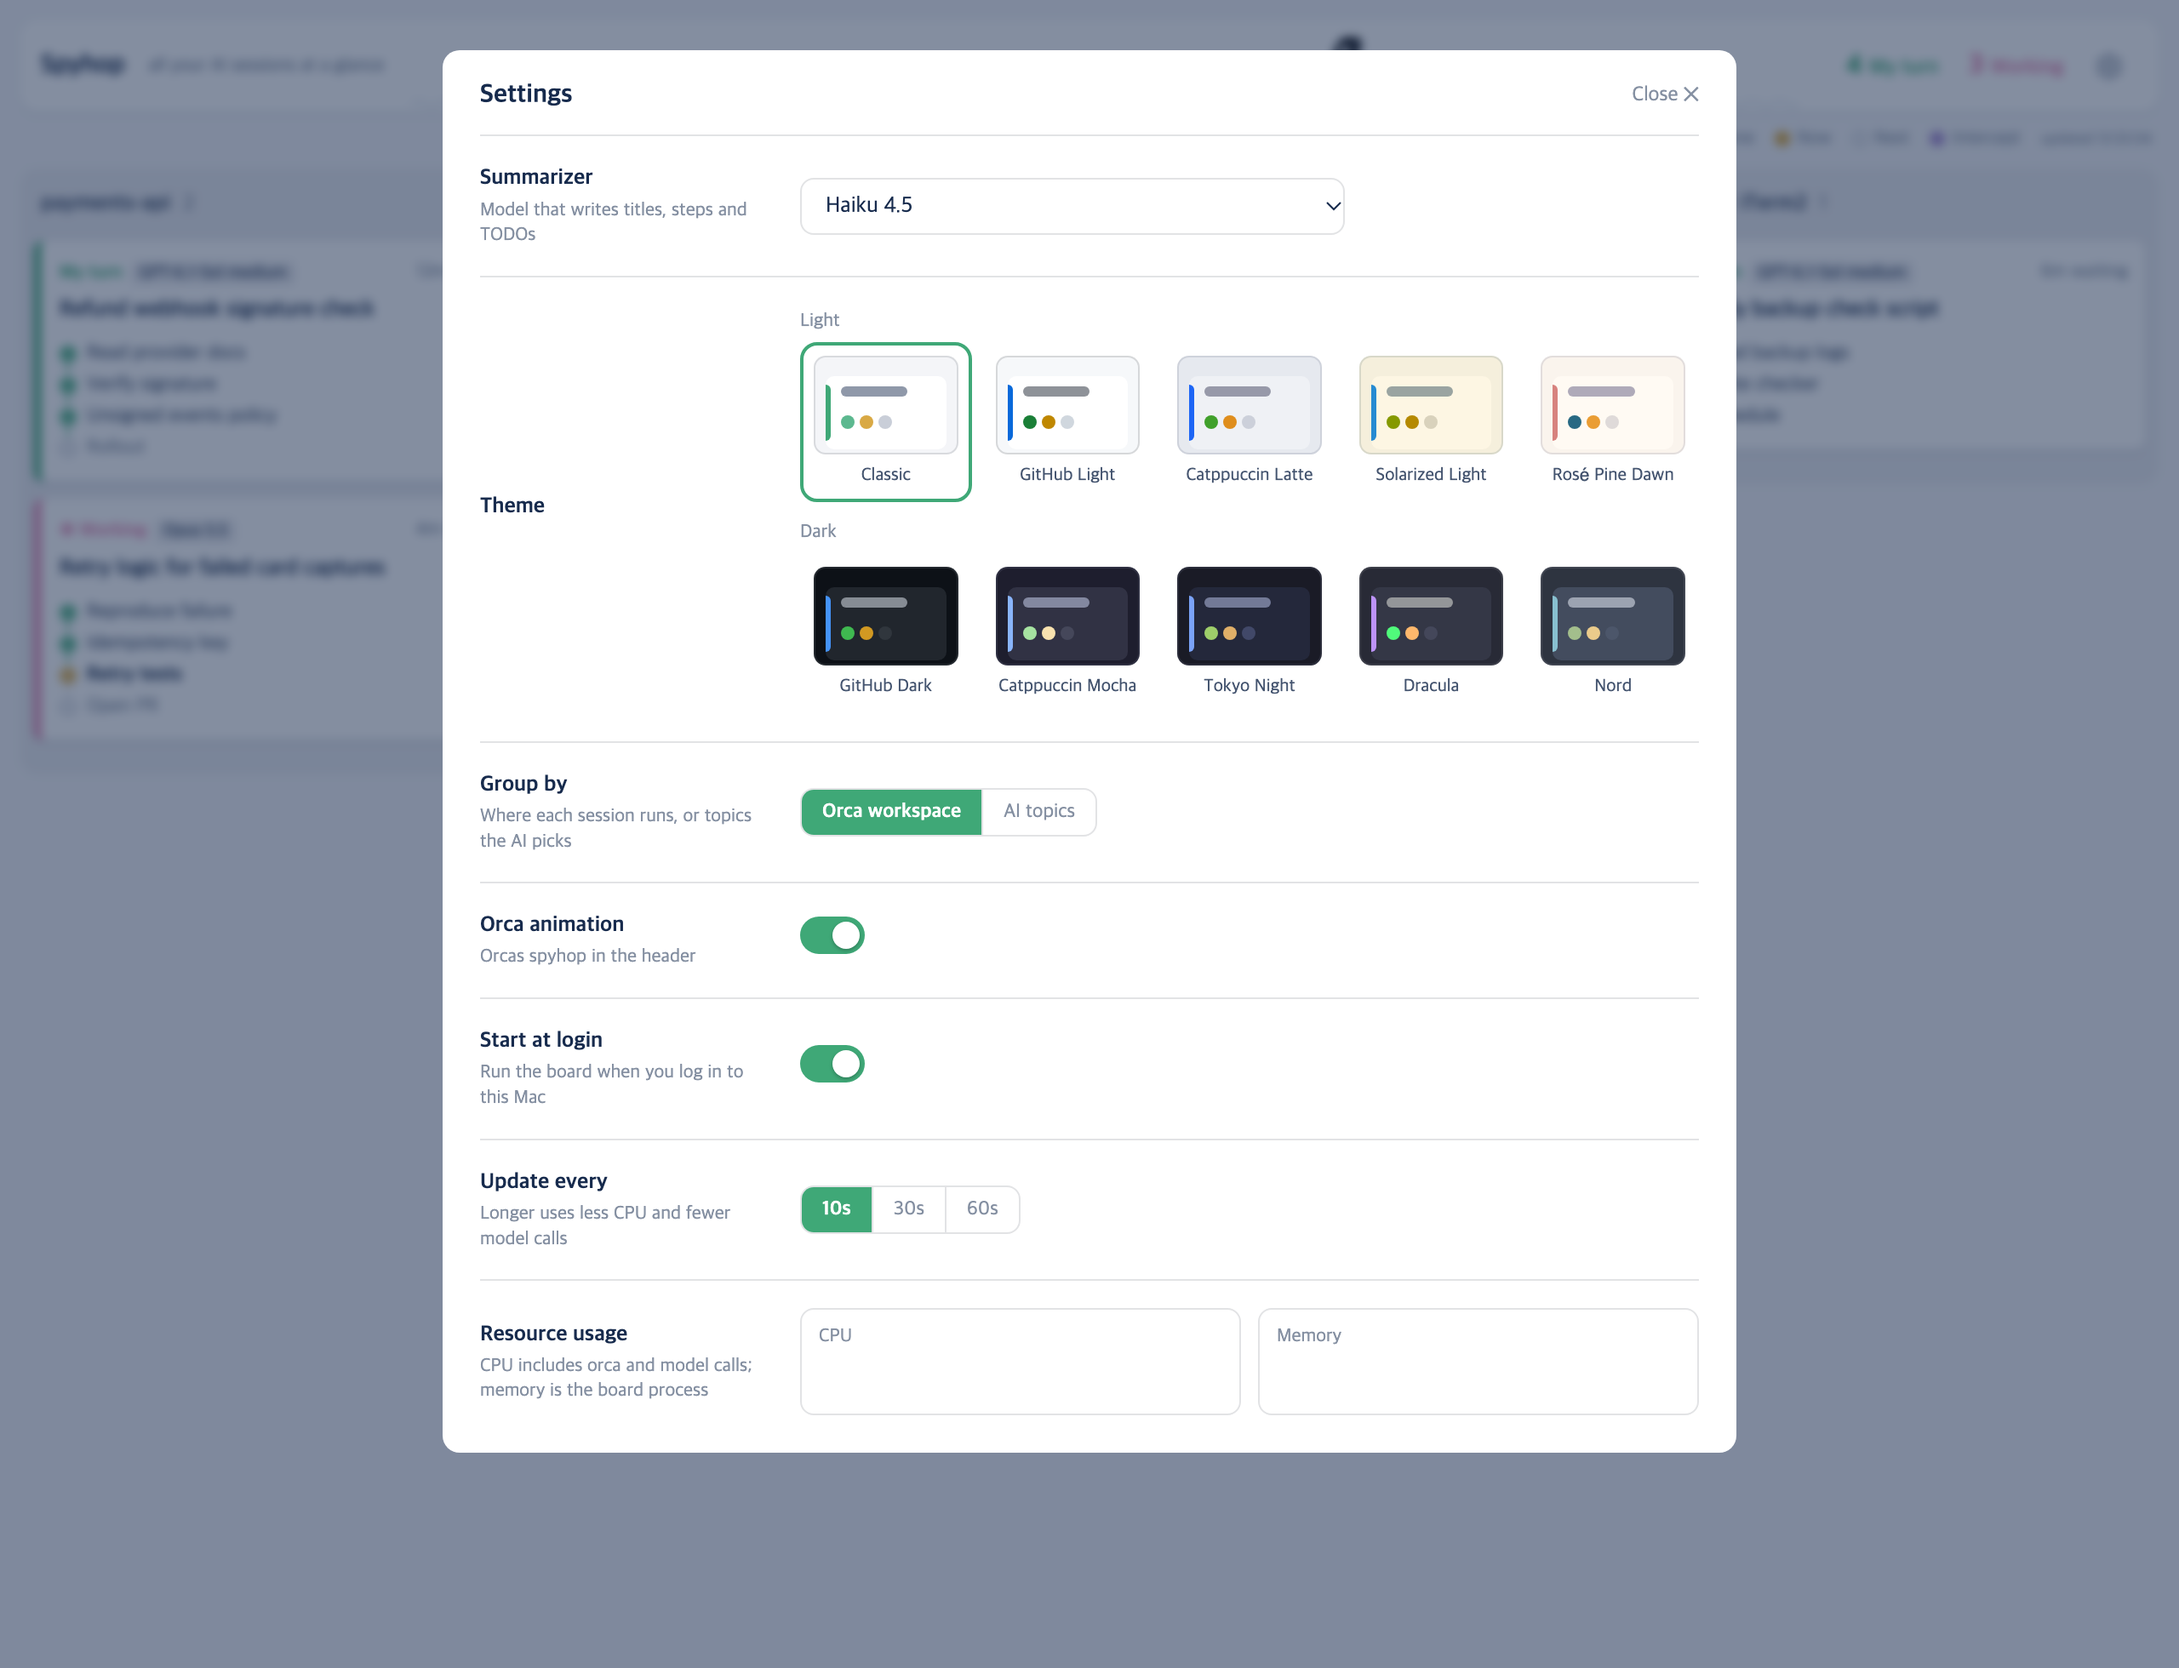
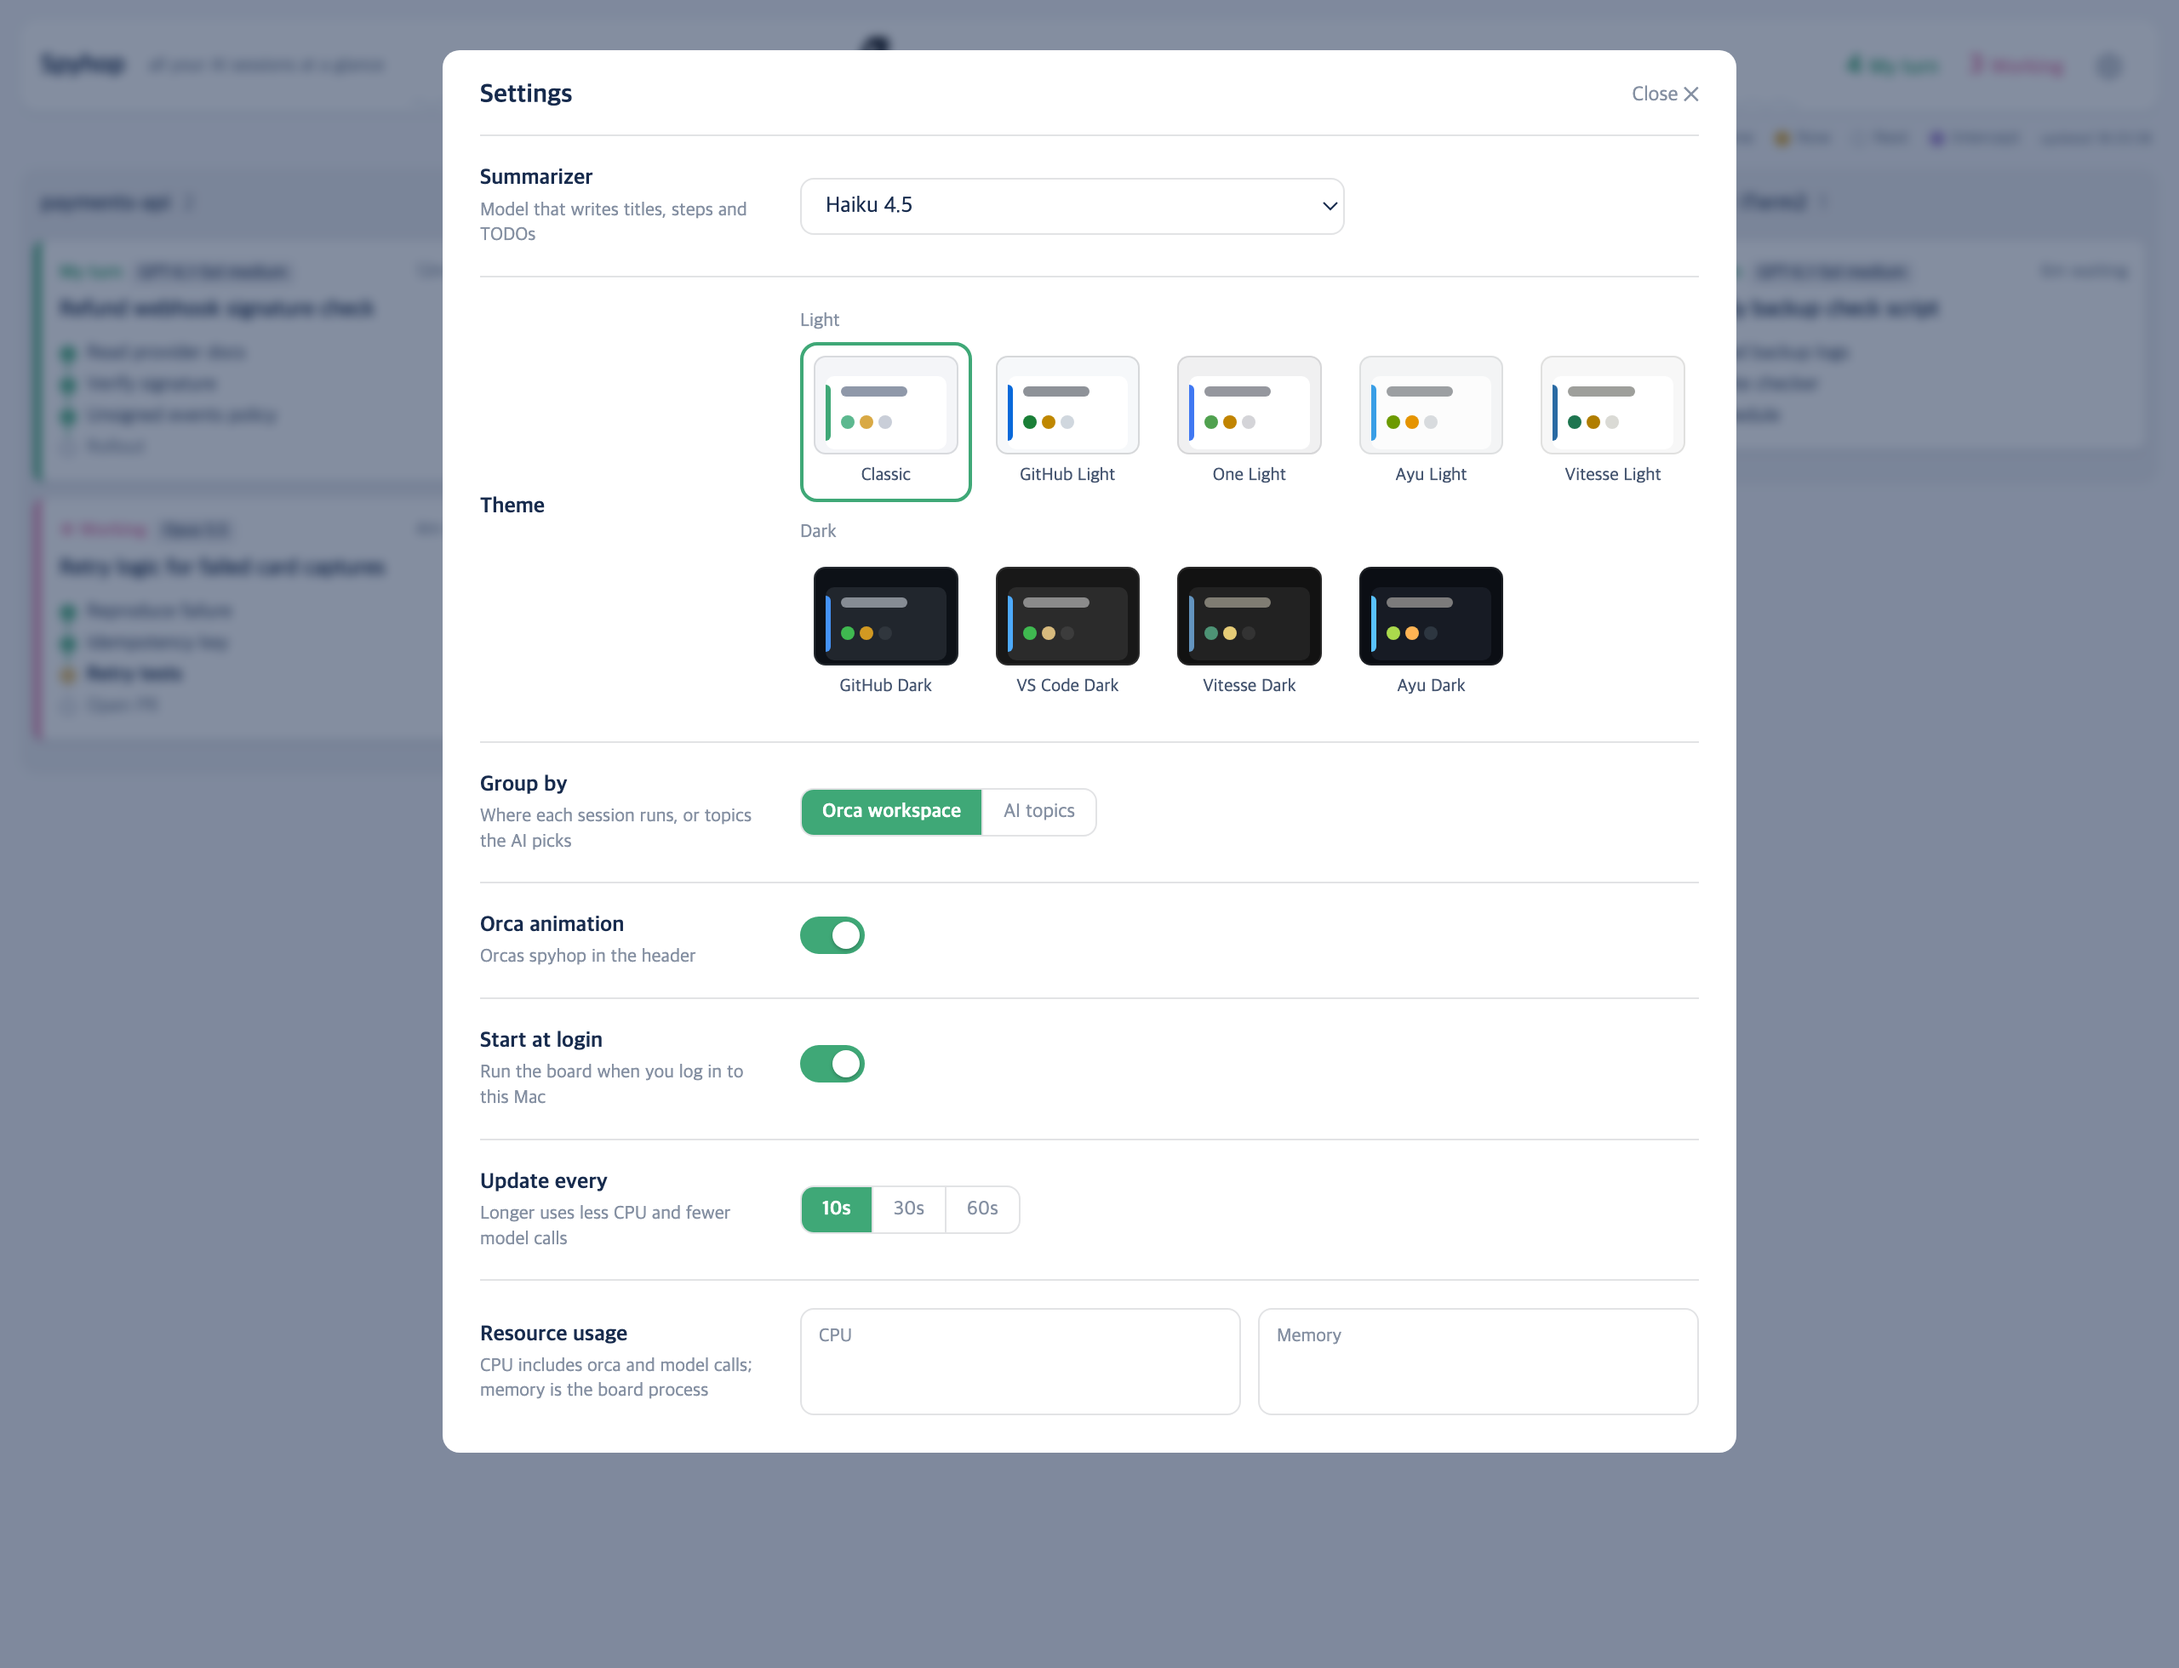
feat: replace the themes with cleaner light and dark sets (#16)

diff --git a/board.py b/board.py
@@ -2836,25 +2836,25 @@ THEMES = [
     ('classic', 'Classic', None),
     ('github-light', 'GitHub Light', dict(bg='#f6f8fa', col='#eaeef2', card='#ffffff', line='rgba(31,35,40,.15)', ink='#1f2328', ink2='#424a53', ink3='#59636e',
                                           done='#1a7f37', now='#bf8700', left='#d0d7de', wait='#0969da', busy='#8250df', side='#bf3989')),
-    ('latte', 'Catppuccin Latte', dict(bg='#e6e9ef', col='#dce0e8', card='#eff1f5', line='rgba(76,79,105,.15)', ink='#4c4f69', ink2='#5c5f77', ink3='#8c8fa1',
-                                       done='#40a02b', now='#df8e1d', left='#ccd0da', wait='#1e66f5', busy='#8839ef', side='#ea76cb')),
-    ('solarized-light', 'Solarized Light', dict(bg='#f5efdc', col='#eee8d5', card='#fdf6e3', line='rgba(88,110,117,.18)', ink='#073642', ink2='#586e75', ink3='#93a1a1',
-                                                done='#859900', now='#b58900', left='#d9d2bc', wait='#268bd2', busy='#6c71c4', side='#d33682')),
-    ('rose-pine-dawn', 'Rosé Pine Dawn', dict(bg='#faf4ed', col='#f2e9e1', card='#fffaf3', line='rgba(87,82,121,.14)', ink='#575279', ink2='#797593', ink3='#9893a5',
-                                              done='#286983', now='#ea9d34', left='#dfdad9', wait='#d7827e', busy='#907aa9', side='#b4637a')),
+    ('one-light', 'One Light', dict(bg='#f0f0f1', col='#e5e5e6', card='#ffffff', line='rgba(56,58,66,.14)', ink='#383a42', ink2='#4f525e', ink3='#80828c',
+                                    done='#50a14f', now='#c18401', left='#d4d4d8', wait='#4078f2', busy='#a626a4', side='#e45649')),
+    ('ayu-light', 'Ayu Light', dict(bg='#f3f4f5', col='#e8eaec', card='#fcfcfc', line='rgba(92,97,102,.14)', ink='#3a3f45', ink2='#5c6166', ink3='#8a9199',
+                                    done='#6c9a00', now='#e59400', left='#d8dbde', wait='#399ee6', busy='#a37acc', side='#f07171')),
+    ('vitesse-light', 'Vitesse Light', dict(bg='#f7f7f7', col='#eeeeee', card='#ffffff', line='rgba(57,58,52,.12)', ink='#393a34', ink2='#5e5f58', ink3='#999990',
+                                            done='#1e754f', now='#b07d00', left='#dadad5', wait='#296aa3', busy='#a65e2b', side='#ab5959')),
     ('github-dark', 'GitHub Dark', dict(bg='#0d1117', col='#161b22', card='#21262d', line='rgba(240,246,252,.1)', ink='#e6edf3', ink2='#c9d1d9', ink3='#8b949e',
                                         done='#3fb950', now='#d29922', left='#30363d', wait='#4493f8', busy='#a371f7', side='#db61a2')),
-    ('mocha', 'Catppuccin Mocha', dict(bg='#1e1e2e', col='#181825', card='#313244', line='rgba(205,214,244,.1)', ink='#cdd6f4', ink2='#bac2de', ink3='#7f849c',
-                                       done='#a6e3a1', now='#f9e2af', left='#45475a', wait='#89b4fa', busy='#cba6f7', side='#f5c2e7')),
-    ('tokyo', 'Tokyo Night', dict(bg='#1a1b26', col='#16161e', card='#24283b', line='rgba(192,202,245,.1)', ink='#c0caf5', ink2='#a9b1d6', ink3='#565f89',
-                                  done='#9ece6a', now='#e0af68', left='#414868', wait='#7aa2f7', busy='#bb9af7', side='#7dcfff')),
-    ('dracula', 'Dracula', dict(bg='#282a36', col='#21222c', card='#343746', line='rgba(248,248,242,.1)', ink='#f8f8f2', ink2='#d6d6d0', ink3='#6272a4',
-                                done='#50fa7b', now='#ffb86c', left='#44475a', wait='#bd93f9', busy='#ff79c6', side='#8be9fd')),
-    ('nord', 'Nord', dict(bg='#2e3440', col='#3b4252', card='#434c5e', line='rgba(236,239,244,.1)', ink='#eceff4', ink2='#d8dee9', ink3='#9aa5b8',
-                          done='#a3be8c', now='#ebcb8b', left='#4c566a', wait='#88c0d0', busy='#b48ead', side='#d08770')),
+    ('vscode-dark', 'VS Code Dark', dict(bg='#181818', col='#1f1f1f', card='#2b2b2b', line='rgba(255,255,255,.09)', ink='#e8e8e8', ink2='#cccccc', ink3='#9d9d9d',
+                                         done='#3fb950', now='#d7ba7d', left='#3c3c3c', wait='#4daafc', busy='#c586c0', side='#f14c4c')),
+    ('vitesse-dark', 'Vitesse Dark', dict(bg='#121212', col='#181818', card='#222222', line='rgba(222,220,213,.1)', ink='#e2ded3', ink2='#bfbaaa', ink3='#7c7c78',
+                                          done='#4d9375', now='#e6cc77', left='#333333', wait='#6394bf', busy='#d4976c', side='#cb7676')),
+    ('ayu-dark', 'Ayu Dark', dict(bg='#0b0e14', col='#0f131a', card='#171b24', line='rgba(191,189,182,.1)', ink='#e6e4dc', ink2='#bfbdb6', ink3='#6c7380',
+                                  done='#aad94c', now='#ffb454', left='#2d3640', wait='#59c2ff', busy='#d2a6ff', side='#f07178')),
 ]
-DARK_THEMES = {'github-dark', 'mocha', 'tokyo', 'dracula', 'nord'}
-OLD_THEMES = {'dark': 'github-dark', 'bluegrey': 'github-dark', 'indigo': 'github-light', 'teal': 'github-light', 'purple': 'latte'}  # 예전 머티리얼 테마를 고른 사람
+DARK_THEMES = {'github-dark', 'vscode-dark', 'vitesse-dark', 'ayu-dark'}
+OLD_THEMES = {'dark': 'github-dark', 'bluegrey': 'github-dark', 'indigo': 'github-light', 'teal': 'github-light', 'purple': 'one-light',  # 예전 머티리얼 테마를 고른 사람
+              'latte': 'one-light', 'solarized-light': 'ayu-light', 'rose-pine-dawn': 'vitesse-light',  # 2026-10 에 뺀 테마
+              'mocha': 'vscode-dark', 'tokyo': 'ayu-dark', 'dracula': 'vitesse-dark', 'nord': 'github-dark'}
 # 미리보기 카드에서만 쓰는 클래식 색 (실제 클래식은 :root 기본값 + 시스템 다크 모드)
 CLASSIC_PREVIEW = ('.thp[data-theme="classic"]{--bg:#f4f5f8;--col:#ebecf0;--card:#fff;--line:rgba(20,24,40,.12);--ink:#172b4d;--ink2:#44546f;'
                    '--ink3:#8590a2;--done:#5cb88f;--now:#d9a944;--left:#c9ced8;--wait:#3fa877;--busy:#e283b0}')
@@ -3056,7 +3056,7 @@ font-size:11px;font-weight:700;background:var(--col);color:var(--ink3);z-index:1
 .cols{display:grid;grid-template-columns:minmax(0,1.35fr) minmax(0,1fr);gap:22px;margin-top:4px}
 @media (max-width:760px){.cols{grid-template-columns:1fr}}
 .c2 .replybox{margin-bottom:14px}.meta2{display:flex;gap:6px;align-items:center;flex-wrap:wrap}
-.stuck{display:inline-flex;align-items:center;gap:5px;font-size:10.5px;font-weight:700;color:#b45309;background:#fffbeb;border:1px solid #fcd34d;border-radius:10px;padding:1px 8px;margin:2px 0 4px}.stuck i{width:6px;height:6px;border-radius:50%;background:#f59e0b;animation:p 1.4s infinite}
+.stuck{display:inline-flex;align-items:center;gap:5px;font-size:10.5px;font-weight:700;color:color-mix(in srgb,var(--now) 70%,var(--ink));background:color-mix(in srgb,var(--now) 13%,var(--card));border:1px solid color-mix(in srgb,var(--now) 50%,transparent);border-radius:10px;padding:1px 8px;margin:2px 0 4px}.stuck i{width:6px;height:6px;border-radius:50%;background:var(--now);animation:p 1.4s infinite}
 .fail{display:inline-flex;align-items:center;gap:5px;font-size:10.5px;font-weight:700;color:#dc2626;background:#fef2f2;border:1px solid #fca5a5;border-radius:10px;padding:1px 8px;margin:2px 0 4px}
 .fail i{width:7px;height:7px;border-radius:50%;background:#dc2626;animation:p 1.2s infinite}
 .tile.failt{--st:#dc2626}

diff --git a/README.md b/README.md
@@ -91,7 +91,7 @@ How much it uses: only sessions whose transcript changed are summarized, at most
 
 ![AI groups](docs/screenshots/ai-groups.png)
 
-- **Settings**: summarizer, 10 themes (GitHub, Catppuccin, Solarized, Rosé Pine, Tokyo Night, Dracula, Nord…), start at login, update interval, live CPU and memory.
+- **Settings**: summarizer, 9 themes (Classic plus GitHub, One, Ayu, Vitesse and VS Code in light and dark), start at login, update interval, live CPU and memory.
 
 ![Settings](docs/screenshots/settings.png)
 
